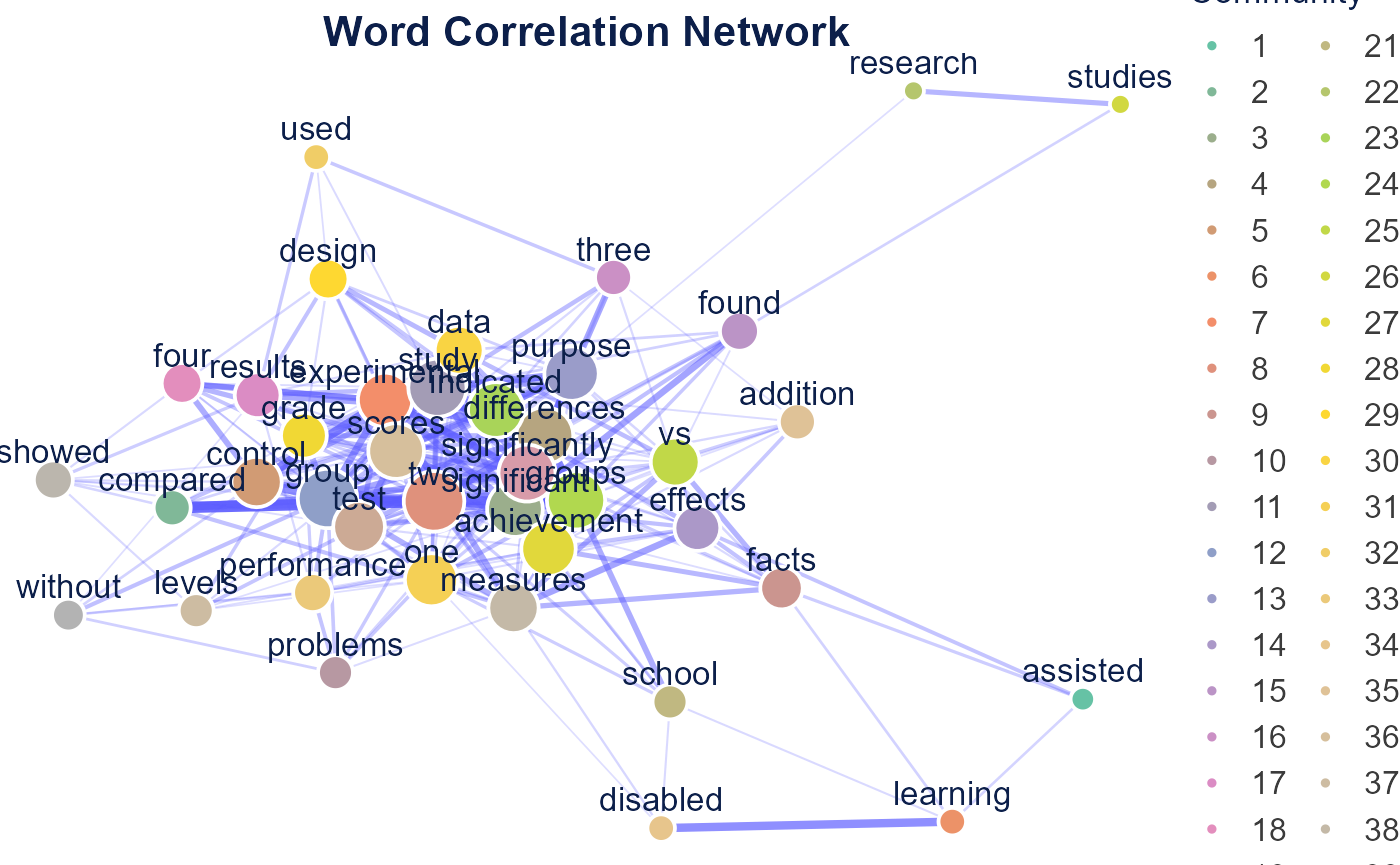
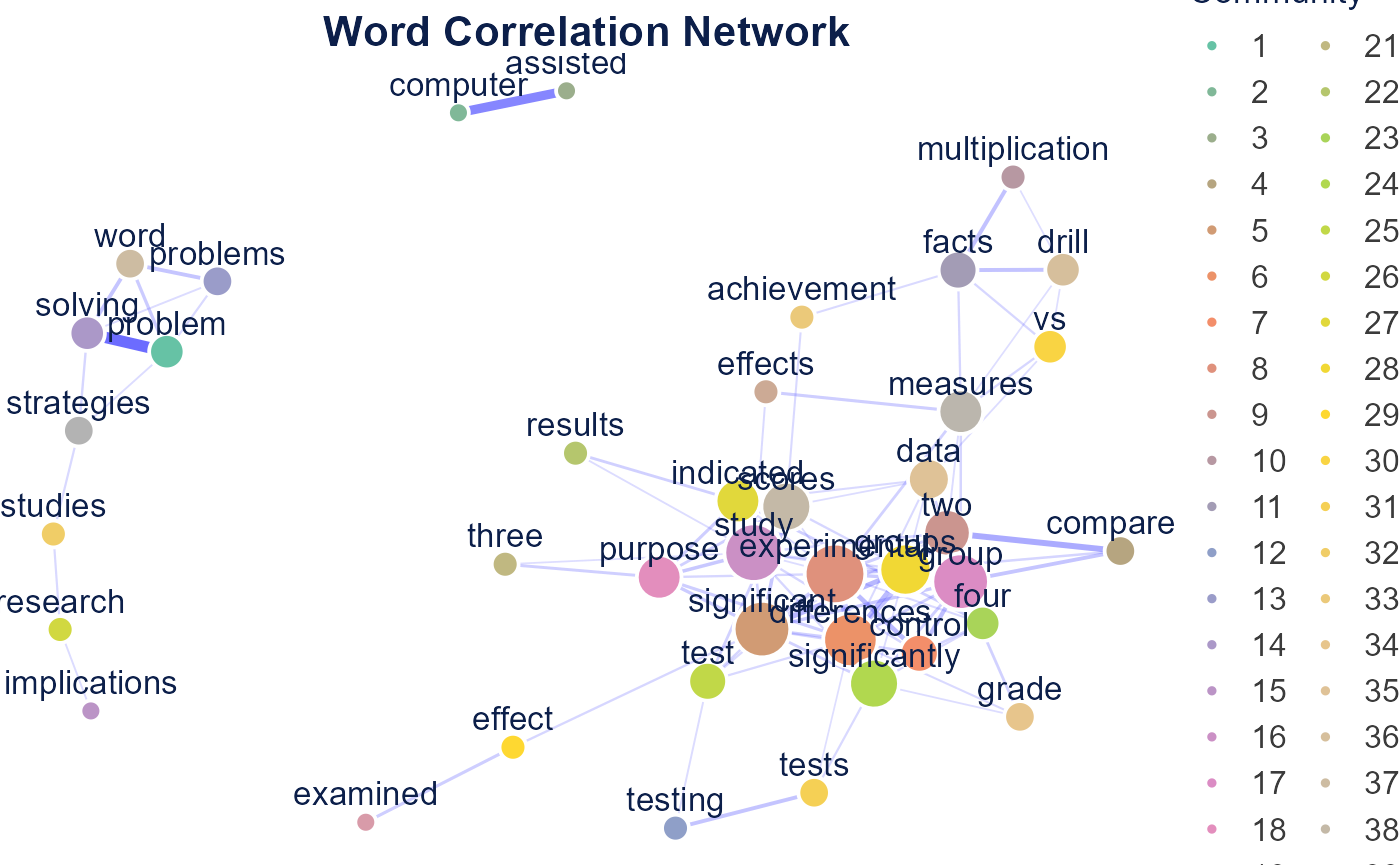
Update word correlation

diff --git a/docs/articles/semantic_analysis.html b/docs/articles/semantic_analysis.html
@@ -109,7 +109,7 @@ fast; the full dataset works the same way.</p>
 <span><span class="va">mydata</span> <span class="op">&lt;-</span> <span class="va">SpecialEduTech</span><span class="op">[</span><span class="fl">1</span><span class="op">:</span><span class="fl">150</span>, <span class="op">]</span></span>
 <span><span class="va">united_tbl</span> <span class="op">&lt;-</span> <span class="fu"><a href="../reference/unite_cols.html">unite_cols</a></span><span class="op">(</span><span class="va">mydata</span>, listed_vars <span class="op">=</span> <span class="fu"><a href="https://rdrr.io/r/base/c.html" class="external-link">c</a></span><span class="op">(</span><span class="st">"title"</span>, <span class="st">"keyword"</span>, <span class="st">"abstract"</span><span class="op">)</span><span class="op">)</span></span>
 <span><span class="va">tokens</span> <span class="op">&lt;-</span> <span class="fu"><a href="../reference/prep_texts.html">prep_texts</a></span><span class="op">(</span><span class="va">united_tbl</span>, text_field <span class="op">=</span> <span class="st">"united_texts"</span>, remove_stopwords <span class="op">=</span> <span class="cn">TRUE</span><span class="op">)</span></span>
-<span><span class="va">dfm_object</span> <span class="op">&lt;-</span> <span class="fu">quanteda</span><span class="fu">::</span><span class="fu"><a href="https://quanteda.io/reference/dfm.html" class="external-link">dfm</a></span><span class="op">(</span><span class="va">tokens</span><span class="op">)</span></span></code></pre></div>
+<span><span class="va">dfm_object</span> <span class="op">&lt;-</span> <span class="fu">quanteda</span><span class="fu">::</span><span class="fu"><a href="https://rdrr.io/pkg/quanteda/man/dfm.html" class="external-link">dfm</a></span><span class="op">(</span><span class="va">tokens</span><span class="op">)</span></span></code></pre></div>
 </div>
 <div class="section level2">
 <h2 id="word-co-occurrence">Word Co-occurrence<a class="anchor" aria-label="anchor" href="#word-co-occurrence"></a>
@@ -151,7 +151,7 @@ correlation of their document co-occurrence patterns.</p>
 <code class="sourceCode R"><span><span class="va">corr_network</span> <span class="op">&lt;-</span> <span class="fu"><a href="../reference/word_correlation_network.html">word_correlation_network</a></span><span class="op">(</span></span>
 <span>  <span class="va">dfm_object</span>,</span>
 <span>  common_term_n <span class="op">=</span> <span class="fl">15</span>,</span>
-<span>  corr_n <span class="op">=</span> <span class="fl">0.2</span>,</span>
+<span>  corr_n <span class="op">=</span> <span class="fl">0.3</span>,</span>
 <span>  community_method <span class="op">=</span> <span class="st">"leiden"</span></span>
 <span><span class="op">)</span></span>
 <span></span>
@@ -163,7 +163,7 @@ correlation of their document co-occurrence patterns.</p>
 <p style="font-weight: bold; text-align: center; font-size: 16px;">Network Centrality Table</p>
 </div>
 <div class="datatables html-widget html-fill-item" id="htmlwidget-36aa3d2a04d42bbc2145" style="width:100%;height:auto;"></div>
-<script type="application/json" data-for="htmlwidget-36aa3d2a04d42bbc2145">{"x":{"filter":"none","vertical":false,"extensions":["Buttons"],"data":[["assisted","compared","significant","differences","control","learning","experimental","two","facts","problems","study","group","purpose","effects","found","three","results","four","significantly","test","school","research","indicated","groups","vs","studies","achievement","grade","design","data","one","used","performance","disabled","addition","scores","levels","measures","showed","without"],[3,8,20,21,16,4,19,24,11,7,22,23,19,13,9,8,13,10,21,17,7,2,20,22,15,2,19,13,10,15,18,4,9,4,8,20,7,16,9,6],[1.387,1.275,25.649,21.804,11.249,2.845,11.461,50.79,36.521,2.145,38.65,28.803,53.713,29.755,33.477,5.464,20.897,2.395,27.809,8.863,14.057,4.058,17.127,26.599,11.559,1.125,26.351,7.314,7.434,10.95,37.713,0.654,6.557,3.356,1.411,16.476,1.651,24.285,4.141,2.23],[0.011,0.014,0.017,0.017,0.015,0.01,0.016,0.018,0.014,0.013,0.017,0.017,0.017,0.015,0.014,0.013,0.014,0.014,0.018,0.016,0.013,0.011,0.017,0.018,0.016,0.008999999999999999,0.017,0.014,0.014,0.015,0.016,0.011,0.014,0.011,0.013,0.016,0.013,0.015,0.013,0.012],[0.059,0.392,0.906,0.967,0.749,0.054,0.916,0.989,0.45,0.312,0.956,1,0.819,0.471,0.432,0.338,0.467,0.488,0.931,0.822,0.279,0.051,0.926,0.986,0.6889999999999999,0.029,0.789,0.596,0.425,0.705,0.769,0.133,0.344,0.109,0.368,0.931,0.315,0.695,0.373,0.221],[1,2,3,4,5,6,7,8,9,10,11,12,13,14,15,16,17,18,19,20,21,22,23,24,25,26,27,28,29,30,31,32,33,34,35,36,37,38,39,40],[240,23,41,29,43,435,35,43,39,93,98,90,16,69,34,31,63,22,28,65,112,73,18,43,25,55,100,52,50,26,32,55,92,141,44,29,21,21,21,30]],"container":"<table class=\"display\">\n  <thead>\n    <tr>\n      <th>label<\/th>\n      <th>degree<\/th>\n      <th>betweenness<\/th>\n      <th>closeness<\/th>\n      <th>eigenvector<\/th>\n      <th>community<\/th>\n      <th>frequency<\/th>\n    <\/tr>\n  <\/thead>\n<\/table>","options":{"scrollX":true,"width":"80%","dom":"Bfrtip","buttons":["copy","csv","excel","pdf","print"],"columnDefs":[{"className":"dt-right","targets":[1,2,3,4,5,6]},{"name":"label","targets":0},{"name":"degree","targets":1},{"name":"betweenness","targets":2},{"name":"closeness","targets":3},{"name":"eigenvector","targets":4},{"name":"community","targets":5},{"name":"frequency","targets":6}],"order":[],"autoWidth":false,"orderClasses":false,"rowCallback":"function(row, data, displayNum, displayIndex, dataIndex) {\nvar value=data[0]; $(this.api().cell(row, 0).node()).css({'font-size':'16px'});\nvar value=data[1]; $(this.api().cell(row, 1).node()).css({'font-size':'16px'});\nvar value=data[2]; $(this.api().cell(row, 2).node()).css({'font-size':'16px'});\nvar value=data[3]; $(this.api().cell(row, 3).node()).css({'font-size':'16px'});\nvar value=data[4]; $(this.api().cell(row, 4).node()).css({'font-size':'16px'});\nvar value=data[5]; $(this.api().cell(row, 5).node()).css({'font-size':'16px'});\nvar value=data[6]; $(this.api().cell(row, 6).node()).css({'font-size':'16px'});\n}"},"selection":{"mode":"multiple","selected":null,"target":"row","selectable":null}},"evals":["options.rowCallback"],"jsHooks":[]}</script>
+<script type="application/json" data-for="htmlwidget-36aa3d2a04d42bbc2145">{"x":{"filter":"none","vertical":false,"extensions":["Buttons"],"data":[["problem","computer","assisted","compared","significant","differences","control","experimental","two","multiplication","facts","testing","problems","solving","implications","study","group","purpose","examined","effects","three","results","four","significantly","test","research","indicated","groups","effect","vs","tests","studies","achievement","grade","data","drill","word","scores","measures","strategies"],[4,1,1,3,12,11,5,14,8,2,5,2,3,4,1,13,12,7,1,2,2,2,4,9,5,2,7,10,2,4,3,2,2,3,6,4,3,9,7,3],[4,0,0,0,66.099,31.375,2.117,60.126,16.522,0,19.843,0.6820000000000001,0,4,0,62.345,43.555,10.94,0,2.475,0,0,1.269,22.523,22.221,6,12.86,14.403,28,7.59,5.606,10,8.013,0,20.756,11.42,0,37.819,70.[phone redacted],12],[0.077,1,1,0.014,0.02,0.018,0.016,0.022,0.019,0.01,0.013,0.011,0.059,0.077,0.042,0.019,0.02,0.017,0.01,0.014,0.013,0.013,0.015,0.018,0.016,0.056,0.016,0.019,0.013,0.014,0.013,0.07099999999999999,0.014,0.014,0.017,0.013,0.059,0.019,0.017,0.083],[0,0,0,0.27,0.899,0.776,0.452,1,0.67,0.015,0.068,0.065,0,0,0,0.861,0.859,0.551,0.012,0.138,0.163,0.151,0.299,0.6860000000000001,0.389,0,0.451,0.8149999999999999,0.105,0.102,0.176,0,0.081,0.268,0.419,0.06,0,0.63,0.334,0],[1,2,3,4,5,6,7,8,9,10,11,12,13,14,15,16,17,18,19,20,21,22,23,24,25,26,27,28,29,30,31,32,33,34,35,36,37,38,39,40],[135,369,240,23,41,29,43,35,43,55,39,22,93,117,24,98,90,16,19,69,31,63,22,28,65,73,18,43,21,25,20,55,100,52,26,36,42,29,21,38]],"container":"<table class=\"display\">\n  <thead>\n    <tr>\n      <th>label<\/th>\n      <th>degree<\/th>\n      <th>betweenness<\/th>\n      <th>closeness<\/th>\n      <th>eigenvector<\/th>\n      <th>community<\/th>\n      <th>frequency<\/th>\n    <\/tr>\n  <\/thead>\n<\/table>","options":{"scrollX":true,"width":"80%","dom":"Bfrtip","buttons":["copy","csv","excel","pdf","print"],"columnDefs":[{"className":"dt-right","targets":[1,2,3,4,5,6]},{"name":"label","targets":0},{"name":"degree","targets":1},{"name":"betweenness","targets":2},{"name":"closeness","targets":3},{"name":"eigenvector","targets":4},{"name":"community","targets":5},{"name":"frequency","targets":6}],"order":[],"autoWidth":false,"orderClasses":false,"rowCallback":"function(row, data, displayNum, displayIndex, dataIndex) {\nvar value=data[0]; $(this.api().cell(row, 0).node()).css({'font-size':'16px'});\nvar value=data[1]; $(this.api().cell(row, 1).node()).css({'font-size':'16px'});\nvar value=data[2]; $(this.api().cell(row, 2).node()).css({'font-size':'16px'});\nvar value=data[3]; $(this.api().cell(row, 3).node()).css({'font-size':'16px'});\nvar value=data[4]; $(this.api().cell(row, 4).node()).css({'font-size':'16px'});\nvar value=data[5]; $(this.api().cell(row, 5).node()).css({'font-size':'16px'});\nvar value=data[6]; $(this.api().cell(row, 6).node()).css({'font-size':'16px'});\n}"},"selection":{"mode":"multiple","selected":null,"target":"row","selectable":null}},"evals":["options.rowCallback"],"jsHooks":[]}</script>
 </div>
 <div class="section level2">
 <h2 id="document-similarity">Document Similarity<a class="anchor" aria-label="anchor" href="#document-similarity"></a>
@@ -225,7 +225,7 @@ example uses the first 30 documents.</p>
 <span></span>
 <span><span class="va">docs_data</span> <span class="op">&lt;-</span> <span class="fu"><a href="https://rdrr.io/r/base/data.frame.html" class="external-link">data.frame</a></span><span class="op">(</span></span>
 <span>  display_name <span class="op">=</span> <span class="fu"><a href="https://rdrr.io/r/base/paste.html" class="external-link">paste0</a></span><span class="op">(</span><span class="st">"doc"</span>, <span class="fl">1</span><span class="op">:</span><span class="fl">30</span><span class="op">)</span>,</span>
-<span>  reference_type <span class="op">=</span> <span class="fu">quanteda</span><span class="fu">::</span><span class="fu"><a href="https://quanteda.io/reference/docvars.html" class="external-link">docvars</a></span><span class="op">(</span><span class="va">dfm_object</span>, <span class="st">"reference_type"</span><span class="op">)</span><span class="op">[</span><span class="fl">1</span><span class="op">:</span><span class="fl">30</span><span class="op">]</span></span>
+<span>  reference_type <span class="op">=</span> <span class="fu">quanteda</span><span class="fu">::</span><span class="fu"><a href="https://rdrr.io/pkg/quanteda/man/docvars.html" class="external-link">docvars</a></span><span class="op">(</span><span class="va">dfm_object</span>, <span class="st">"reference_type"</span><span class="op">)</span><span class="op">[</span><span class="fl">1</span><span class="op">:</span><span class="fl">30</span><span class="op">]</span></span>
 <span><span class="op">)</span></span>
 <span><span class="fu"><a href="https://rdrr.io/r/base/dimnames.html" class="external-link">dimnames</a></span><span class="op">(</span><span class="va">sim_matrix</span><span class="op">)</span> <span class="op">&lt;-</span> <span class="fu"><a href="https://rdrr.io/r/base/list.html" class="external-link">list</a></span><span class="op">(</span><span class="va">docs_data</span><span class="op">$</span><span class="va">display_name</span>, <span class="va">docs_data</span><span class="op">$</span><span class="va">display_name</span><span class="op">)</span></span>
 <span></span>
@@ -279,8 +279,8 @@ metadata category after joining it to the scored documents. Transformer
 key and are not run here.</p>
 <div class="sourceCode" id="cb13"><pre class="downlit sourceCode r">
 <code class="sourceCode R"><span><span class="va">scored</span> <span class="op">&lt;-</span> <span class="fu"><a href="../reference/sentiment_lexicon_analysis.html">sentiment_lexicon_analysis</a></span><span class="op">(</span><span class="va">dfm_object</span>, lexicon <span class="op">=</span> <span class="st">"bing"</span><span class="op">)</span><span class="op">$</span><span class="va">document_sentiment</span></span>
-<span><span class="va">scored</span><span class="op">$</span><span class="va">reference_type</span> <span class="op">&lt;-</span> <span class="fu">quanteda</span><span class="fu">::</span><span class="fu"><a href="https://quanteda.io/reference/docvars.html" class="external-link">docvars</a></span><span class="op">(</span><span class="va">dfm_object</span>, <span class="st">"reference_type"</span><span class="op">)</span><span class="op">[</span></span>
-<span>  <span class="fu"><a href="https://rdrr.io/r/base/match.html" class="external-link">match</a></span><span class="op">(</span><span class="va">scored</span><span class="op">$</span><span class="va">document</span>, <span class="fu">quanteda</span><span class="fu">::</span><span class="fu"><a href="https://quanteda.io/reference/docnames.html" class="external-link">docnames</a></span><span class="op">(</span><span class="va">dfm_object</span><span class="op">)</span><span class="op">)</span></span>
+<span><span class="va">scored</span><span class="op">$</span><span class="va">reference_type</span> <span class="op">&lt;-</span> <span class="fu">quanteda</span><span class="fu">::</span><span class="fu"><a href="https://rdrr.io/pkg/quanteda/man/docvars.html" class="external-link">docvars</a></span><span class="op">(</span><span class="va">dfm_object</span>, <span class="st">"reference_type"</span><span class="op">)</span><span class="op">[</span></span>
+<span>  <span class="fu"><a href="https://rdrr.io/r/base/match.html" class="external-link">match</a></span><span class="op">(</span><span class="va">scored</span><span class="op">$</span><span class="va">document</span>, <span class="fu">quanteda</span><span class="fu">::</span><span class="fu"><a href="https://rdrr.io/pkg/quanteda/man/docnames.html" class="external-link">docnames</a></span><span class="op">(</span><span class="va">dfm_object</span><span class="op">)</span><span class="op">)</span></span>
 <span><span class="op">]</span></span>
 <span><span class="fu"><a href="../reference/plot_sentiment_by_category.html">plot_sentiment_by_category</a></span><span class="op">(</span><span class="va">scored</span>, category_var <span class="op">=</span> <span class="st">"reference_type"</span><span class="op">)</span></span></code></pre></div>
 <p><img src="semantic_analysis_files/figure-html/unnamed-chunk-9-1.png" class="r-plt" alt="" width="700"></p>